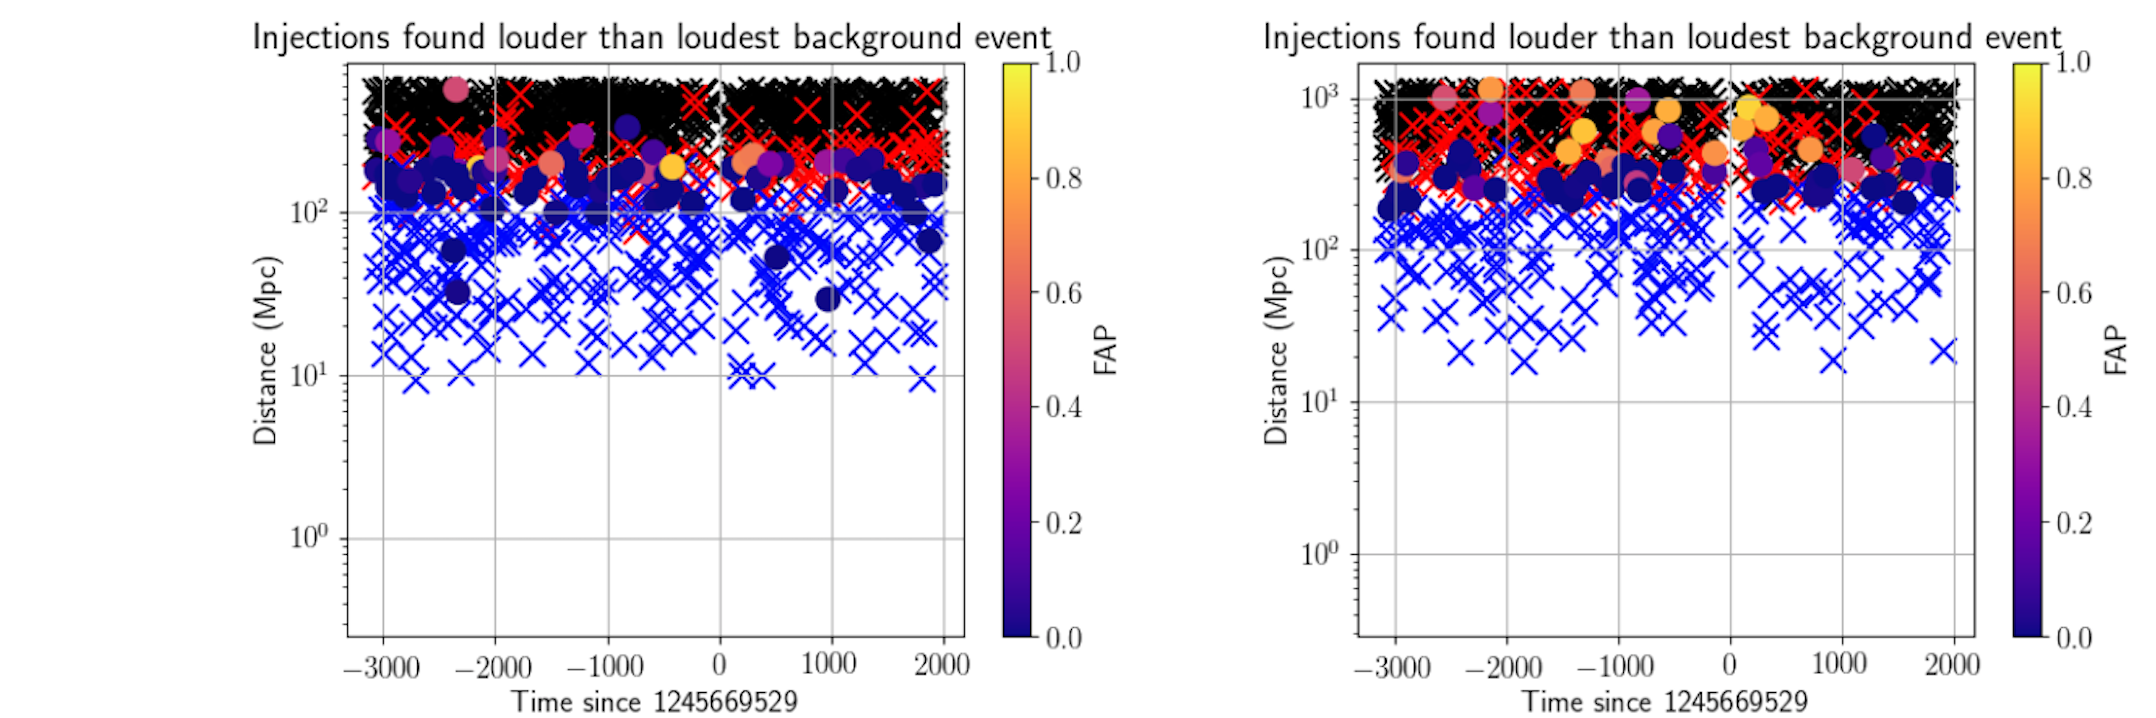
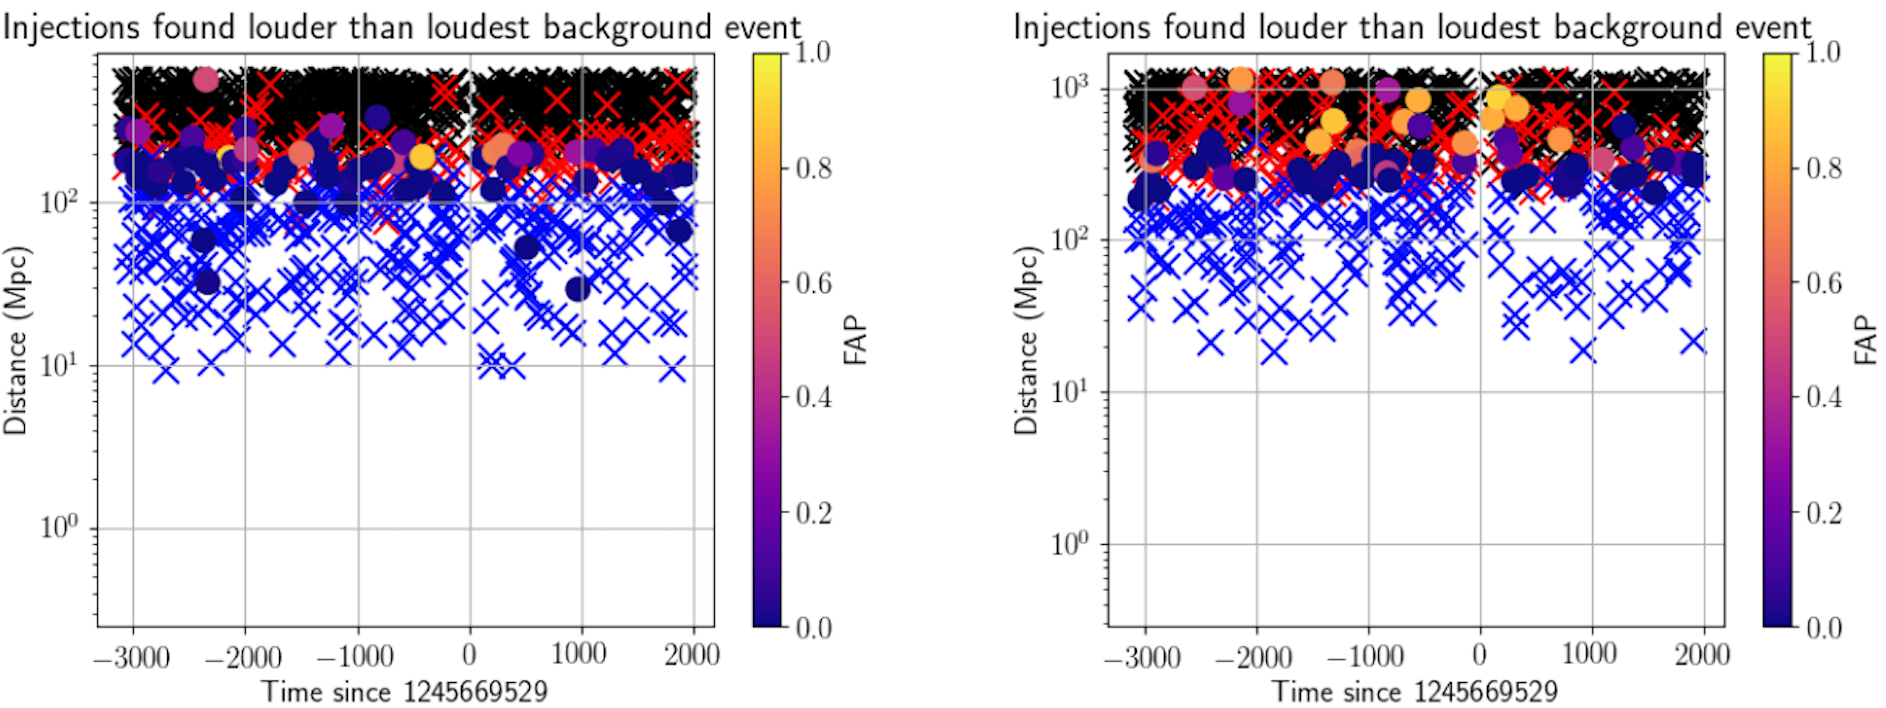
Better figures

diff --git a/thesis.tex b/thesis.tex
@@ -2770,7 +2770,7 @@ sense that
           \label{signalconsistencyplots1}
           \makebox[\textwidth]{\includegraphics[scale=0.68]{signalconsistencyplots1}}%
           \centering
-          \caption{\textbf{Signal consistency plots.} The panels show the $\chi^2$-test results for background data (blue crosses) and injected signals (red crosses) as a function of coherent SNR.   From top to bottom, the test reported are: the template bank test (``Bank Veto''), the autocorrelation test (``Auto Veto''), and the standard, frequency bin $\chi^2$-test (``Chi Square'').   The yellow lines mark contours of constant re-weighted SNR. See Sec.\,\ref{subsubsec:multidec_chi_test} for details on the three $\chi^2$-tests.}
+          \caption{\textbf{$\chi^2$ signal consistency plots.} The panels show the $\chi^2$-test results for background data (blue crosses) and injected signals (red crosses) as a function of coherent SNR.   From top to bottom, the test reported are: the template bank test (``Bank Veto''), the autocorrelation test (``Auto Veto''), and the standard, frequency bin $\chi^2$-test (``Chi Square'').   The yellow lines mark contours of constant re-weighted SNR. See Sec.\,\ref{subsubsec:multidec_chi_test} for details on the three $\chi^2$-tests.}
           \label{fig:signalconsistencyplots1}
        	\end{figure}
 	Additional signal consistency tests are reported in Fig.\,\ref{fig:detector1}. 
@@ -2788,9 +2788,9 @@ sense that
         \begin{figure}[!t]
           \noindent
           \label{detector1}
-          \makebox[\textwidth]{\includegraphics[scale=0.44]{detector1}}%
+          \makebox[\textwidth]{\includegraphics[width=\textwidth]{detector1}}%
           \centering
-          \caption{The two plots show the single detector SNR as a function of the coherent SNR, for H1 and L1, respectively.  Blue and red crosses represent background data and injected signals.  The expected trend for GW signals of astrophysical origin is marked by the middle, green line; the other two green lines, the two magenta lines, and the two cyan lines represent $1\sigma$, $2\sigma$, and $3\sigma$ deviations, respectively.}
+          \caption{\textbf{SNR signal consistency plots.} The two plots show the single detector SNR as a function of the coherent SNR, for H1 and L1, respectively.  Blue and red crosses represent background data and injected signals.  The expected trend for GW signals of astrophysical origin is marked by the middle, green line; the other two green lines, the two magenta lines, and the two cyan lines represent $1\sigma$, $2\sigma$, and $3\sigma$ deviations, respectively.}
           \label{fig:detector1}
         \end{figure}
 	The plots in Fig.\,\ref{fig:missinj1} are an example of the results 
@@ -2853,9 +2853,9 @@ sense that
         \begin{figure}[!t]
           \noindent
           \label{missinj1}
-          \makebox[\textwidth]{\includegraphics[scale=0.4]{missinj1}}%
           \centering
-          \caption{\textbf{Found/missed injections.} Plots of the injections distance against time. Each panel represents a different injection set, with precessing BNS systems on the left and aligned-spin NSBH sources on the right. A blu cross denotes an injection that was found and that was louder than all background triggers. A coloured circle indicates that a trigger was found coincident with the injection, but it was not louder than all offsource events: its colour code is given by the FAP of the trigger.  A Red cross indicates a trigger was found coincident with the injection but it was vetoed, while a black cross indicates no trigger was found coincident with the injection.}
+          \includegraphics[width=\textwidth]{missinj1}
+          \caption{\textbf{Found/missed injection plots.} Plots of the injections distance against time. Each panel represents a different injection set, with precessing BNS systems on the left and aligned-spin NSBH sources on the right. A blu cross denotes an injection that was found and that was louder than all background triggers. A coloured circle indicates that a trigger was found coincident with the injection, but it was not louder than all offsource events: its colour code is given by the FAP of the trigger.  A Red cross indicates a trigger was found coincident with the injection but it was vetoed, while a black cross indicates no trigger was found coincident with the injection.}
           \label{fig:missinj1}
         \end{figure}
 
@@ -2896,41 +2896,8 @@ sense that
 	The 90\% confidence exclusion distances for the three injection sets are 115\,Mpc for BNSs, 
 	139\,Mpc for precessing NSBHs, and 211 Mpc for aligned NSBHs, as reported in \cite{208}.
 
-\begin{comment}
-\begin{tabular}{ |p{3cm}||p{3cm}|p{3cm}|p{3cm}|  }
- \hline
- Source & $D_{90}$\\
- \hline
-BNS  & 115   \\
-Generic NSBH & 139 \\
-Aligned NSBH & 211\\ 
- \hline
-\end{tabular}
-\end{comment}
-
 
 \subsection{GRB 190728271}
-        {\it Fermi}/GBM triggered on GRB 190728271 at 06:30:36 UTC on July 28, 2019.
-        The GRB was located at $RA = \ang{356.7}$, $Dec = \ang{5.4}$
-        with a statistical uncertainty of $\ang{5.7}$, while the duration was $T_{90} = (0.832 \pm 0.905)\,$s.
-        All three GW detectors were operating at the time of this GRB,
-        and their responses in its direction were 0.271, 0.665, and 0.463 for H1, L1, and V1, respectively.
-
-	\begin{comment}
-	While the results of the $\chi^2$-tests look rather clean (Fig.\,\ref{fig:scplots2_final}), a loud injection ends up being bank-vetoed,
-        as do six injections in the case of the auto veto.
-        Further investigations revealed that the bank-vetoed injection corresponds to a 22$M_\odot$ NSBH system,
-        with a highly spinning and precessing BH as well as a precessing NS: this kind of system is beyond the parameter space region targetted by the template bank.
-        Of the six auto-vetoed injections, five are BNSs with precessing NSs spinning with magnitudes greater than $0.05$, and
-        one is an NSBH with highly spinning and precessing NS and a highly precessing BH.
-        The plots of the of the single SNR versus coherent SNR (Fig.\,\ref{fig:detector2_final}) reveal that the performance of H1 is not ideal, as several injections fall outside the $3\sigma$ deviation from the expected behaviour.
-        This is due to the poor antenna response of H1 in comparison the L1 and V1.  This also reflects in a fairgly high number of nearby injections that are either not recovered as louder than all background events or are vetoed, even when considering the non-precessing NSBH injeciton set (Fig.\,\ref{fig:missinj2_3}).
-	Twenty nearby BNS injections were found not to be recovered confidently.
-	All of them have at least one spin magnitude greater than 0.05, that is also precessing.  A high NS spin magnitude was also found for the nearby NSBH injections that were not recovered as louder than all the background events.
-	\end{comment}
-
-	The $\chi^2$-tests are shown in Fig.\,\ref{fig:scplots2_final}.
-        In the case of the bank and auto vetoes, several injections are dragged in the vetoed area by the background.  Three auto-vetoed injections (middle panel) and a single standard-vetoed injection are not superimposed to the background triggers: these correspond to highly precessing injections and are therefore not worrisome.
         \begin{figure}[!t]
           \noindent
           \label{scplots2_final}
@@ -2938,50 +2905,49 @@ Aligned NSBH & 211\\
             \includegraphics[width=0.67\textwidth]{GRB190728271_bank_veto_vs_snr_zoom}\\
             \includegraphics[width=0.67\textwidth]{GRB190728271_auto_veto_vs_snr_zoom}\\
             \includegraphics[width=0.67\textwidth]{GRB190728271_chi_square_vs_snr_zoom}%
-          \caption{\textbf{Signal consistency plots.} Same as Fig.\,\ref{fig:signalconsistencyplots1} but for GRB 190728271.}
+          \caption{\textbf{$\chi^2$ signal consistency plots.} Same as Fig.\,\ref{fig:signalconsistencyplots1} but for GRB 190728271.}
           \label{fig:scplots2_final}
         \end{figure}
+
+        {\it Fermi}/GBM triggered on GRB 190728271 at 06:30:36 UTC on July 28, 2019.
+        The GRB was located at $RA = \ang{356.7}$, $Dec = \ang{5.4}$
+        with a statistical uncertainty of $\ang{5.7}$, while the duration was $T_{90} = (0.832 \pm 0.905)\,$s.
+        All three GW detectors were operating at the time of this GRB,
+        and their responses in its direction were 0.271, 0.665, and 0.463 for H1, L1, and V1, respectively.
+
+	The $\chi^2$-tests are shown in Fig.\,\ref{fig:scplots2_final}.
+        In the case of the bank and auto vetoes, several injections are dragged in the vetoed area by the background.  Three auto-vetoed injections (middle panel) and a single standard-vetoed injection are not superimposed to the background triggers: these correspond to highly precessing injections and are therefore not worrisome.
         The single SNR versus coherent SNR plots (Fig.\,\ref{fig:detector2_final}) reveal that 
 	the L1 has the best performance, which is in line with it having the highest antenna factor; overall these plots did not flag any issue.
-	%
-        Finally, Fig.\,\ref{fig:missinj2_3} shows the result of the injection recovery study.  Twenty nearby BNS injections were found not to be recovered confidently.
-        All of them have at least one spin magnitude greater than 0.05, with moderate to high precession. 
-	Further, two injections were missed due to high $\chi^2$ and NullSNR values, caused by a glitch in the L1 data.
-	A high NS spin magnitude ($\sim 0.3$) also caused a single nearby NSBH injections to not be recovered as louder than all the background events.
+
         \begin{figure}[!t]
           \noindent
           \label{detector2_final}
           \centering
-            \includegraphics[width=0.67\textwidth]{GRB190728271_H1_snr_vs_snr_zoom}\\
-            \includegraphics[width=0.67\textwidth]{GRB190728271_L1_snr_vs_snr_zoom}\\
-            \includegraphics[width=0.67\textwidth]{GRB190728271_V1_snr_vs_snr_zoom}%
-          \caption{Same as Fig.\,\ref{fig:detector1}, but for GRB 190728271 and for three detectors this time.}
+            \includegraphics[width=0.64\textwidth]{GRB190728271_H1_snr_vs_snr_zoom}\\
+            \includegraphics[width=0.64\textwidth]{GRB190728271_L1_snr_vs_snr_zoom}\\
+            \includegraphics[width=0.64\textwidth]{GRB190728271_V1_snr_vs_snr_zoom}%
+          \caption{{\bf SNR signal consistency plots.} Same as Fig.\,\ref{fig:detector1}, but for GRB 190728271 and for three detectors this time.}
           \label{fig:detector2_final}
         \end{figure}
-        %
+
         \begin{figure}[!t]
           \noindent
           \label{missinj2_3}
-          \makebox[\textwidth]{\includegraphics[scale=0.45]{missinj2_3}}%
+          \makebox[\textwidth]{\includegraphics[width=\textwidth]{missinj2_3}}%
           \centering
-          \caption{\textbf{Found/missed injections.} Same as Fig.\,\ref{fig:missinj1} but for GRB 190728271.}
+          \caption{\textbf{Found/missed injection plots.} Same as Fig.\,\ref{fig:missinj1} but for GRB 190728271.}
           \label{fig:missinj2_3}
         \end{figure}
-        % 
+
+        Finally, Fig.\,\ref{fig:missinj2_3} shows the result of the injection recovery study.  Twenty nearby BNS injections were found not to be recovered confidently.
+        All of them have at least one spin magnitude greater than 0.05, with moderate to high precession. 
+	Further, two injections were missed due to high $\chi^2$ and NullSNR values, caused by a glitch in the L1 data.
+	A high NS spin magnitude ($\sim 0.3$) also caused a single nearby NSBH injections to not be recovered as louder than all the background events.
         As for GRB 190627A, this background analysis gave overall good results,
 	and the on-source data results were investigated.
 	The loudest onsource event was given a FAP of 0.513, so it is not of astrophysical origin.  The $90\%$ confidence exclusion distances for the on-source window are 160\,Mpc, 204\,Mpc and 272\,Mpc for the BNS, the precessing and aligned NSBH, respectively, as reported in \cite{208}.
-\begin{comment}
-\begin{tabular}{ |p{3cm}||p{3cm}|p{3cm}|p{3cm}|  }
- \hline
- Source & $D_{90}$\\
- \hline
-BNS  & 160   \\
-Generic NSBH & 204\\
-Aligned NSBH & 272\\ 
- \hline
-\end{tabular}
-\end{comment}
+
 \subsection{GRB 190425089}
         GRB 190425089 was observed at 02:07:43 on April 25, 2019 by the Swift satellite,
         with a sky position of $RA=\ang{126.5}$ and $Dec=\ang{-58.1}$.
@@ -2994,9 +2960,9 @@ Aligned NSBH & 272\\
         \begin{figure}[!t]
           \noindent
           \label{detector3}
-          \makebox[\textwidth]{\includegraphics[scale=0.5]{detector3}}%
+          \makebox[\textwidth]{\includegraphics[width=0.66\textwidth]{detector3}}%
           \centering
-          \caption{Same as Fig.\,\ref{fig:detector1} but for GRB 190425089.}
+          \caption{{\bf SNR signal consistency plots.} Same as Fig.\,\ref{fig:detector1} but for GRB 190425089.}
           \label{fig:detector3}
         \end{figure}
 
@@ -3007,19 +2973,20 @@ Aligned NSBH & 272\\
         \begin{figure}[!t]
           \noindent
           \label{signalconsistencyplots3_final}
-          \makebox[\textwidth]{\includegraphics[scale=0.68]{signalconsistencyplots3_final}}%
+          \makebox[\textwidth]{\includegraphics[width=0.69\textwidth]{signalconsistencyplots3_final}}%
           \centering
-          \caption{\textbf{Signal consistency plots.} Same as Fig.\,\ref{fig:signalconsistencyplots1} but for GRB 190425089.}
+          \caption{\textbf{$\chi^2$ signal consistency plots.} Same as Fig.\,\ref{fig:signalconsistencyplots1} but for GRB 190425089.}
           \label{fig:signalconsistencyplots3_final}
         \end{figure}
-	The plots of the of the single SNR versus coherent SNR reported in Fig.\,\ref{fig:detector3_final}) show that both H1 and L1
+
+	The plots of the of the single SNR versus coherent SNR reported in Fig.\,\ref{fig:detector3_final} show that both H1 and L1
 	follow the expected astrophysical trend overall, with just one injection falling out the 3$\sigma$ deviation in H1.  This corresponds to a BNS with highly spinning and precessing NSs and is therefore not surprising.
         \begin{figure}[!t]
           \noindent
           \label{detector3_final}
-          \makebox[\textwidth]{\includegraphics[scale=0.4]{detector3_final}}%
+          \makebox[\textwidth]{\includegraphics[width=\textwidth]{detector3_final}}%
           \centering
-          \caption{\textbf{Signal consistency plots.} Same as Fig.\,\ref{fig:detector1} but for GRB 190425089. These plot show the re-analysis of  GRB 190425089 without V1.}
+          \caption{\textbf{SNR consistency plots.} Same as Fig.\,\ref{fig:detector1} but for GRB 190425089. These plot show the re-analysis of  GRB 190425089 without V1.}
           \label{fig:detector3_final}
         \end{figure}
 	
@@ -3028,7 +2995,7 @@ Aligned NSBH & 272\\
         \begin{figure}[!t]
           \noindent
           \label{missinj3_5}
-          \makebox[\textwidth]{\includegraphics[scale=0.44]{missinj3_5}}%
+          \makebox[\textwidth]{\includegraphics[width=\textwidth]{missinj3_5}}%
           \centering
           \caption{\textbf{Found/missed injections.} Same as Fig.\,\ref{fig:missinj1} but for GRB 190425089.}
           \label{fig:missinj3_5}
@@ -3037,17 +3004,6 @@ Aligned NSBH & 272\\
 	and the on-source data results were investigated: 
 	the loudest event had a FAP of 0.075 which is not significant astrophysically.  The 90\% confidence exclusion distance for BNS, generic spin NSBH and aligned spin NSBH sources were found to be 204\,Mpc, 247\,Mpc and 440\,Mpc, respectively, as reported in \cite{208}.
 
-\begin{comment}
-\begin{tabular}{ |p{3cm}||p{3cm}|p{3cm}|p{3cm}|  }
- \hline
- Source & $D_{90}$\\
- \hline
-BNS  & 204  \\
-Generic NSBH & 247\\
-Aligned NSBH & 440\\ 
- \hline
-\end{tabular}
-\end{comment}
 
 
 \section{Coincident Analysis of a Chunk of O3b Data}
